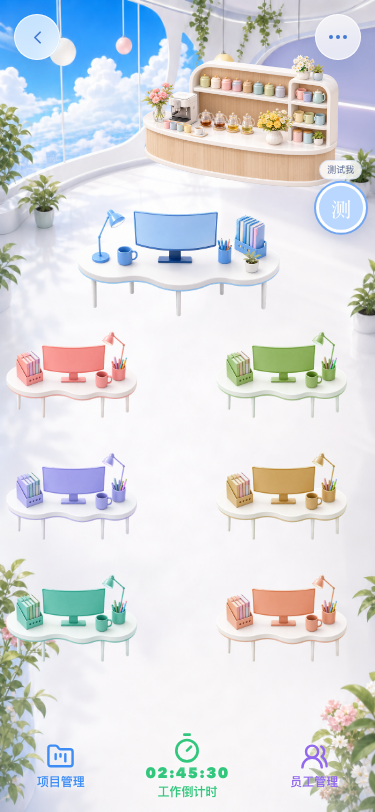
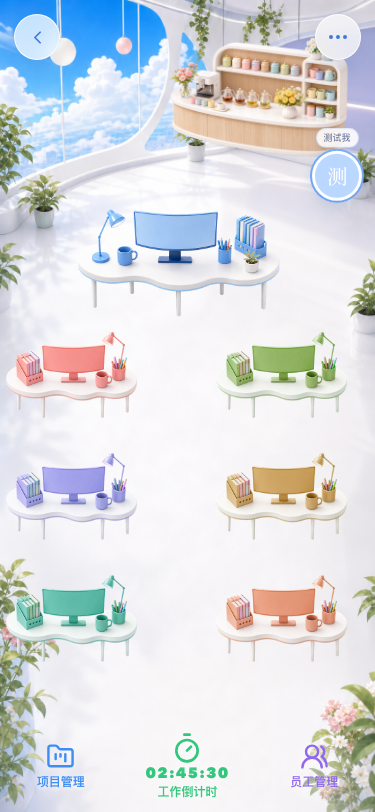
fix: refine office tea counter placement

Changed region(s): [[0.3813, 0.0308, 0.9973, 0.3079]]

diff --git a/src/work/officeGeometry.test.js b/src/work/officeGeometry.test.js
@@ -19,15 +19,15 @@ test("centers avatars behind the visible desk art", () => {
   assert.deepEqual([1, 2, 3, 4, 5, 6].map((number) => OFFICE_HOME_POINTS[`employee${number}-home`].y), [40, 40, 56, 56, 72, 72]);
 });
 
-test("uses the approved smaller tea counter and lower-right approach", () => {
+test("uses the approved smaller raised tea counter and lower-right approach", () => {
   assert.deepEqual(OFFICE_LAYOUT.tea, {
-    top: 6,
-    right: 2,
-    width: 64,
-    height: 18,
+    top: 4,
+    right: 0,
+    width: 58,
+    height: 16,
     alpha: [79 / 900, 9 / 520, 820 / 900, 505 / 520],
   });
-  assert.deepEqual(OFFICE_INTERACTION_POINTS["tea-counter"], { x: 93, y: 28 });
+  assert.deepEqual(OFFICE_INTERACTION_POINTS["tea-counter"], { x: 92, y: 24 });
 });
 
 test("derives responsive visible furniture bounds and keeps destinations traversable", () => {

diff --git a/src/work/workScreen.test.js b/src/work/workScreen.test.js
@@ -21,7 +21,7 @@ test("office screen uses full-bleed floating controls", () => {
   assert.match(styles, /\.work-topbar\s*\{[^}]*position:\s*absolute/s);
   assert.match(styles, /\.work-bottom-nav\s*\{[^}]*position:\s*absolute/s);
   assert.match(styles, /\.office-object\.desk\.boss\s*\{[^}]*top:\s*23%/s);
-  assert.match(styles, /\.office-object\.tea\s*\{[^}]*top:\s*6%;[^}]*right:\s*2%;[^}]*width:\s*64%;[^}]*height:\s*18%/s);
+  assert.match(styles, /\.office-object\.tea\s*\{[^}]*top:\s*4%;[^}]*right:\s*0;[^}]*width:\s*58%;[^}]*height:\s*16%/s);
   assert.match(styles, /--walk-duration/);
   assert.doesNotMatch(styles, /\.office-object\.door|\.left-door|\.right-top-door|\.right-mid-door/);
 });

diff --git a/src/work/office.css b/src/work/office.css
@@ -35,7 +35,7 @@
 .office-object.employee-5 { top: 69%; left: -2%; filter: hue-rotate(164deg) saturate(.86); }
 .office-object.employee-6 { top: 69%; right: -2%; filter: hue-rotate(18deg) saturate(.94); }
 
-.office-object.tea { z-index: 2; top: 6%; right: 2%; width: 64%; height: 18%; }
+.office-object.tea { z-index: 2; top: 4%; right: 0; width: 58%; height: 16%; }
 
 .office-character { position: absolute; z-index: 2; left: var(--x); top: var(--y); display: grid; width: 58px; justify-items: center; transform: translate(-50%,-92%); transition: left var(--walk-duration,700ms) linear, top var(--walk-duration,700ms) linear; pointer-events: none; }
 .office-character.is-moving { z-index: 4; }

diff --git a/src/work/officeGeometry.js b/src/work/officeGeometry.js
@@ -11,7 +11,7 @@ export const OFFICE_HOME_POINTS = Object.freeze({
 });
 
 export const OFFICE_INTERACTION_POINTS = Object.freeze({
-  "tea-counter": Object.freeze({ x: 93, y: 28 }),
+  "tea-counter": Object.freeze({ x: 92, y: 24 }),
 });
 
 export const OFFICE_LAYOUT = Object.freeze({
@@ -28,10 +28,10 @@ export const OFFICE_LAYOUT = Object.freeze({
     alpha: Object.freeze([55 / 520, 41 / 360, 449 / 520, 303 / 360]),
   }),
   tea: Object.freeze({
-    top: 6,
-    right: 2,
-    width: 64,
-    height: 18,
+    top: 4,
+    right: 0,
+    width: 58,
+    height: 16,
     alpha: Object.freeze([79 / 900, 9 / 520, 820 / 900, 505 / 520]),
   }),
 });
